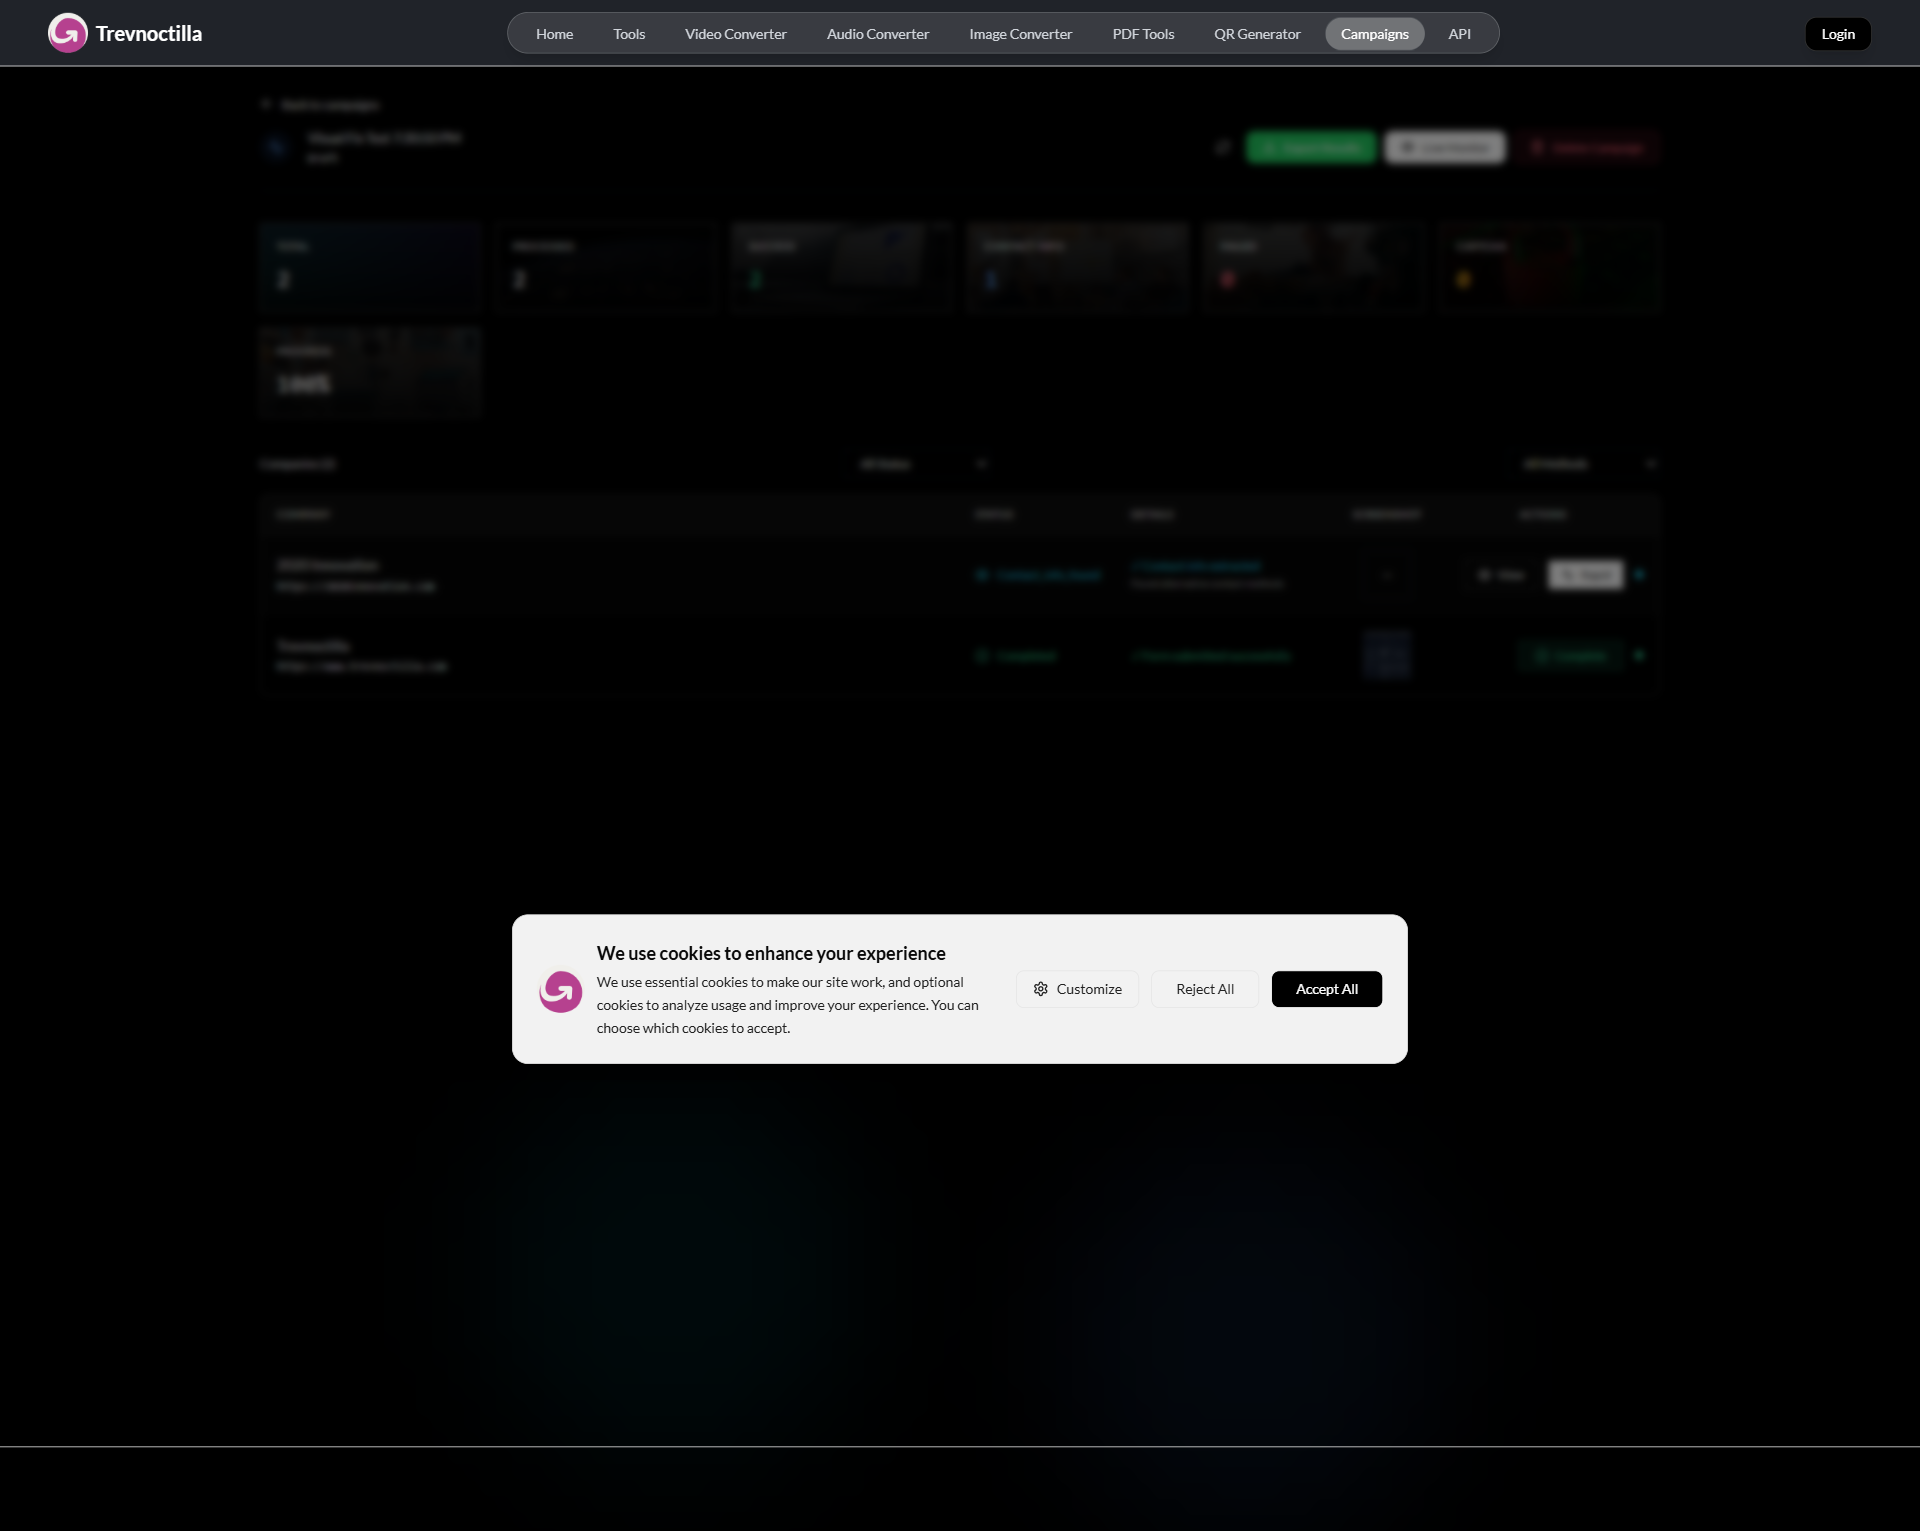
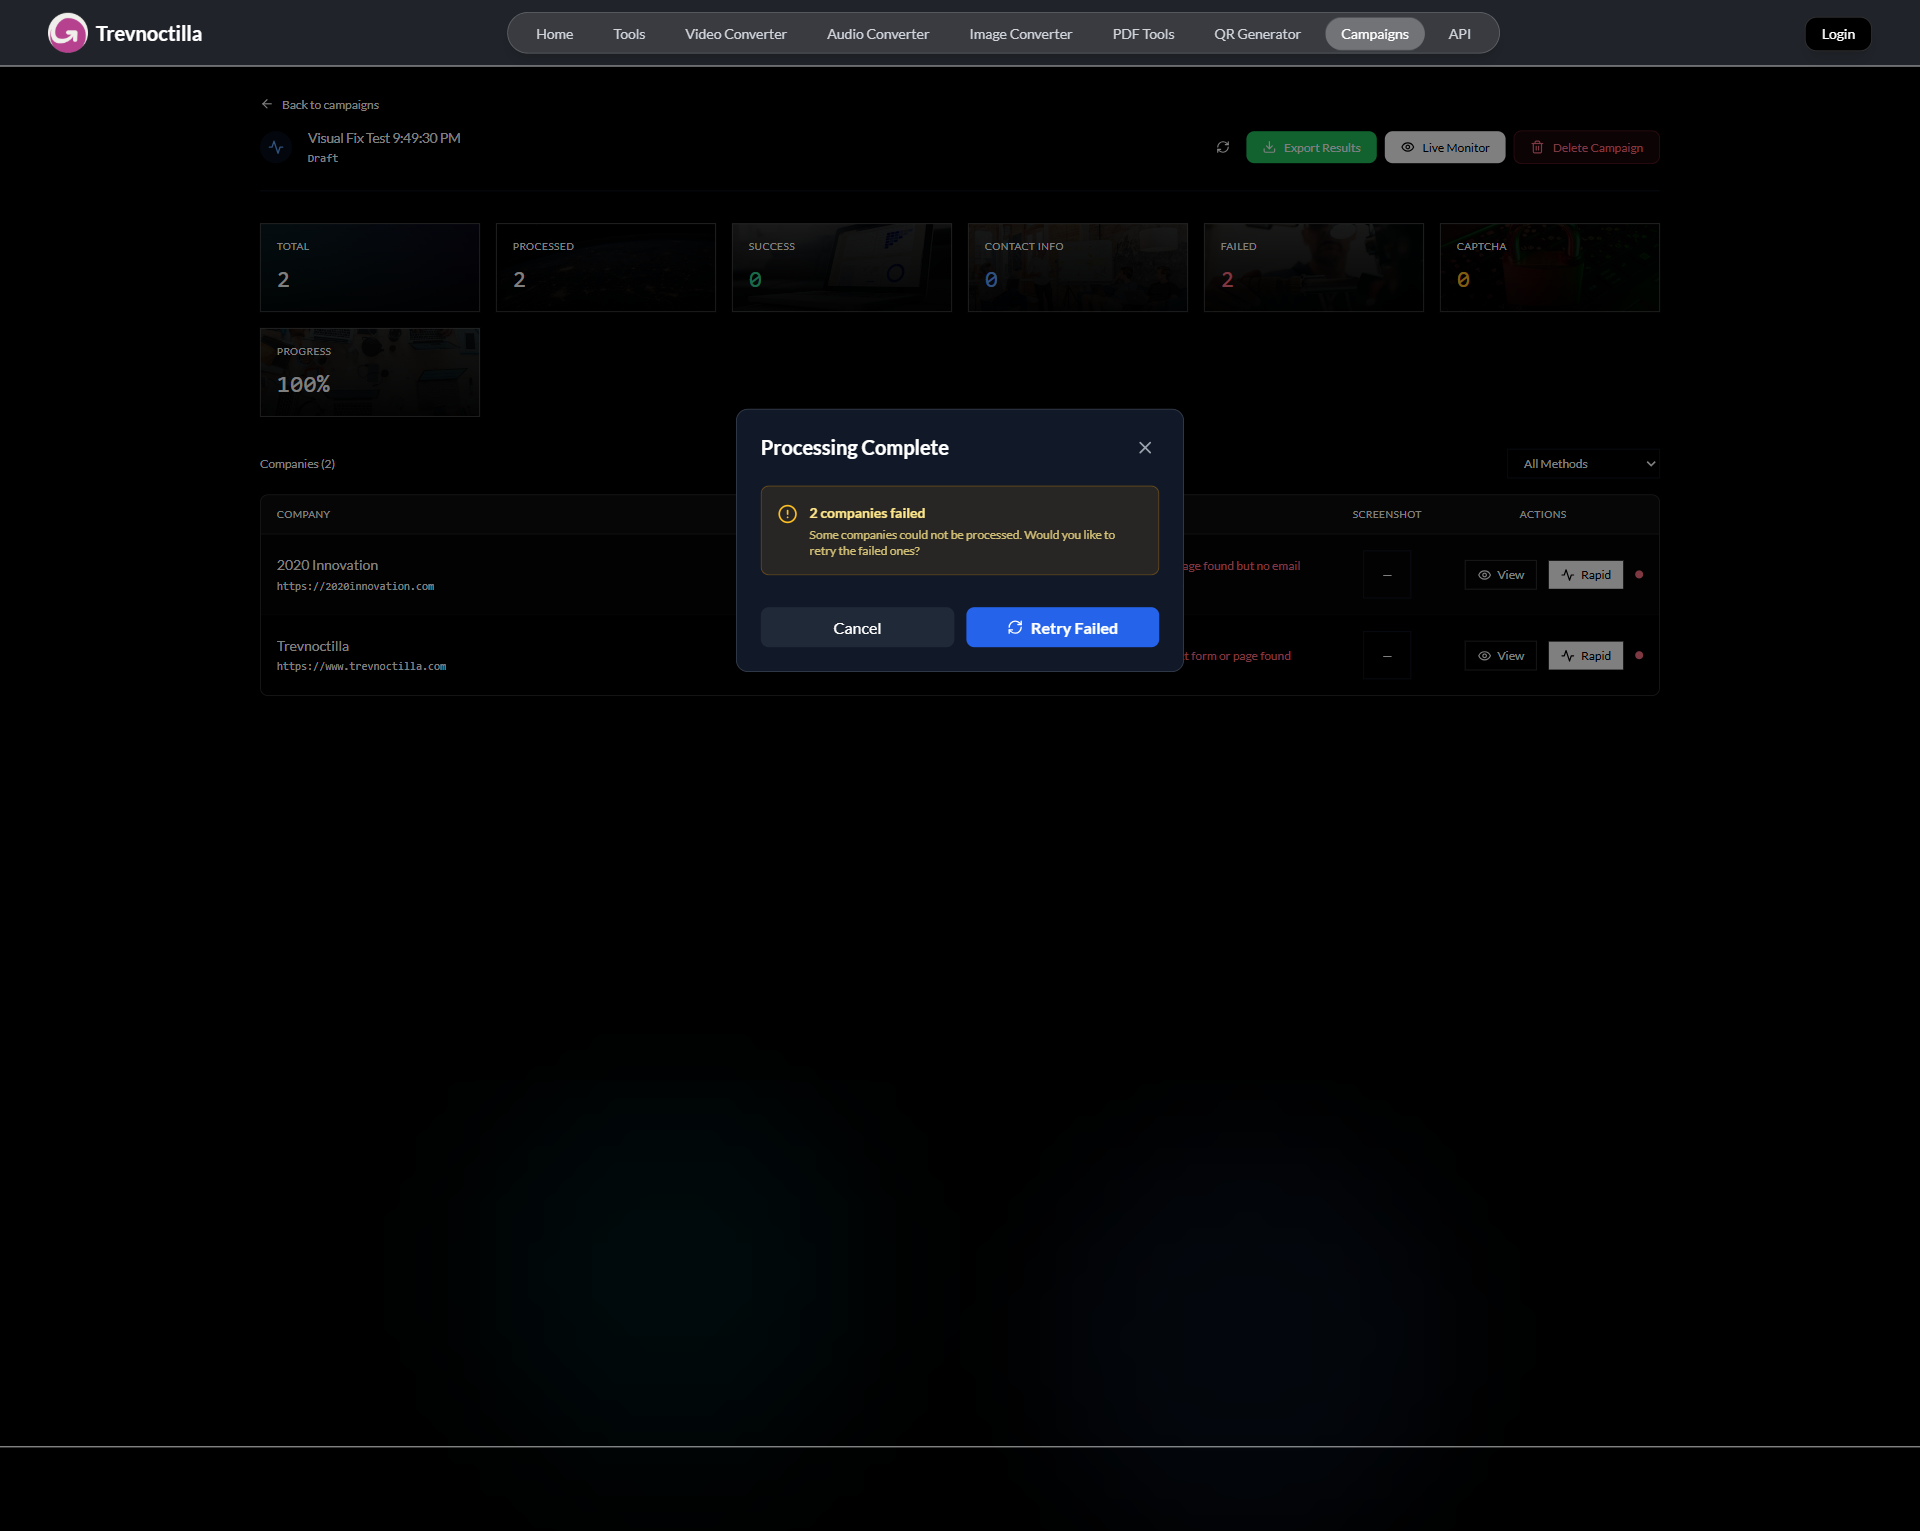
fix: robust form detection heuristics and backend result mapping sync

diff --git a/test-campaign-browser-flow.js b/test-campaign-browser-flow.js
@@ -73,7 +73,7 @@ async function testCampaignBrowserFlow() {
         await page.goto(`${FRONTEND_URL}/campaigns/upload`);
     }
     
-    await page.waitForURL('**/campaigns/upload', { timeout: 10000 });
+    await page.waitForURL('**/campaigns/upload', { timeout: 30000 });
     await page.waitForTimeout(2000);
     log('✓ Upload page loaded', 'green');
 
@@ -163,12 +163,59 @@ https://www.trevnoctilla.com,Trevnoctilla,South Africa`;
     await page.keyboard.press('Escape');
     await page.waitForTimeout(500);
 
+    // Monitor network requests to capture API failures
+    page.on('request', request => {
+        if (request.url().includes('/api/campaigns') && request.method() === 'POST') {
+            log(`  📡 API Request started: ${request.url()}`, 'yellow');
+        }
+    });
+
+    page.on('response', async response => {
+        if (response.url().includes('/api/campaigns') && response.request().method() === 'POST') {
+            const status = response.status();
+            log(`  📡 API Response received: ${status}`, status === 200 ? 'green' : 'red');
+            if (status !== 200) {
+                try {
+                    const errorJson = await response.json();
+                    log(`  ❌ API ERROR BODY: ${JSON.stringify(errorJson)}`, 'red');
+                } catch (e) {
+                    const text = await response.text();
+                    log(`  ❌ API ERROR TEXT: ${text.substring(0, 500)}`, 'red');
+                }
+            }
+        }
+    });
+
+    // Accept Cookies if banner exists
+    // Dismiss cookie banner more robustly
+    try {
+        const cookieButtons = [
+            'button:has-text("Accept All")',
+            'button:has-text("Accept")',
+            '#cookie-accept',
+            '.cookie-banner button'
+        ];
+        
+        for (const selector of cookieButtons) {
+            const btn = page.locator(selector).first();
+            if (await btn.isVisible({ timeout: 1000 })) {
+                log(`  🍪 Dismissing cookie banner with selector: ${selector}`, 'yellow');
+                await btn.click({ force: true });
+                await page.waitForTimeout(500);
+            }
+        }
+    } catch (e) {}
+
     // Force click to bypass any non-blocking overlays
     await page.click('button:has-text("Create Campaign")', { force: true });
+    log('  Click sent (forced). Waiting 5s for reaction...', 'yellow');
+    await page.waitForTimeout(5000);
+    log(`  Current URL after click: ${page.url()}`, 'yellow');
+    await page.screenshot({ path: 'test-screenshots/debug-step5-after-click.png', fullPage: true });
     
     // Wait for navigation to campaign detail page
     try {
-        await page.waitForURL('**/campaigns/([0-9]*)', { timeout: 45000 });
+        await page.waitForURL('**/campaigns/([0-9]*)', { timeout: 90000 });
     } catch (e) {
         log('  ⚠ Navigation wait timed out, checking if we arrived anyway...', 'yellow');
         
@@ -184,6 +231,9 @@ https://www.trevnoctilla.com,Trevnoctilla,South Africa`;
             
             const errorMsg = await page.locator('.text-red-300, .text-red-500, [role="alert"]').allTextContents();
             if (errorMsg.length > 0) log(`  Found error messages: ${errorMsg.join(', ')}`, 'red');
+            
+            const bodyText = await page.innerText('body');
+            log(`  PAGE CONTENT SAMPLE: ${bodyText.substring(0, 500)}`, 'red');
             
             await page.screenshot({ path: 'test-screenshots/error-create-timeout.png', fullPage: true });
             throw e;
@@ -204,65 +254,98 @@ https://www.trevnoctilla.com,Trevnoctilla,South Africa`;
     // =====================================================
     log('\n[Step 6/6] Triggering Rapid All...', 'cyan');
     
-    // Find Rapid All button
-    const rapidAllButton = await page.locator('button:has-text("Rapid All")').first();
-    await rapidAllButton.click();
+    // Find Rapid All button with more robustness
+    log('  🔍 Searching for "Rapid All" button...', 'yellow');
     
-    log('✓ Rapid All started. Waiting for limit modal if any...', 'yellow');
-    
-    // Wait for modal to potentially appear
-    await page.waitForTimeout(1000);
-    
-    // Look for generic Start button in the modal
-    const startButton = await page.locator('button:has-text("Start (")').first();
-    
-    if (await startButton.isVisible({ timeout: 5000 })) {
-       log(`  Found start button: "${await startButton.textContent()}"`, 'yellow');
-       log('  Clicking confirm in modal...', 'yellow');
-       await startButton.click();
-    } else {
-        // Fallback: check for any "Start" button if the format is different
-        const anyStart = await page.locator('div[role="dialog"] button:has-text("Start")').first();
-        if (await anyStart.isVisible()) {
-            log(`  Found generic start button: "${await anyStart.textContent()}"`, 'yellow');
-            await anyStart.click();
-        } else {
-            log('  No limit modal start button found (might have auto-started or selector mismatch)', 'yellow');
-            // Log what buttons are visible to debug
-            const buttons = await page.locator('div[role="dialog"] button').allInnerTexts().catch(() => []);
-            if (buttons.length > 0) log(`  Visible modal buttons: ${buttons.join(', ')}`, 'yellow');
-        }
+    // DEBUG: List every single button on the page
+    const buttons = await page.locator('button').all();
+    log(`  Found ${buttons.length} total buttons on page. Listing texts:`, 'yellow');
+    for (const [idx, btn] of buttons.entries()) {
+        const text = await btn.innerText();
+        const visible = await btn.isVisible();
+        const box = await btn.boundingBox();
+        log(`    [${idx}] "${text}" | Visible: ${visible} | Box: ${JSON.stringify(box)}`, 'yellow');
     }
 
-    log('\nWatching companies process in real-time...', 'cyan');
+    const rapidAllButton = page.locator('button').filter({ hasText: /Rapid All/i }).first();
     
-    // Watch for 120 seconds for the extensive test
-    for (let i = 0; i < 120; i++) {
-      await page.waitForTimeout(2000);
-      const statusText = await page.locator('div:has-text("Completed"), div:has-text("Failed")').count();
-      
-      if (i % 5 === 0) {
-        await page.screenshot({ path: `test-screenshots/8-processing-${i}s.png`, fullPage: true });
+    try {
+        await rapidAllButton.waitFor({ state: 'visible', timeout: 15000 });
+        const btnText = await rapidAllButton.innerText();
+        log(`  ✓ Found "Rapid All" button with text: "${btnText}"`, 'green');
         
-        // Check table rows for status
+        await rapidAllButton.scrollIntoViewIfNeeded();
+        await page.screenshot({ path: 'test-screenshots/debug-before-rapid-all-click.png' });
+        
+        log('  Clicking Rapid All button...', 'yellow');
+        
+        // Strategy 1: Standard click
         try {
-            const completedCount = await page.locator('td:has-text("Completed")').count();
-            const failedCount = await page.locator('td:has-text("Failed")').count();
-            const contactFoundCount = await page.locator('td:has-text("Contact Info Found")').count();
-            
-            const totalFinished = completedCount + failedCount + contactFoundCount;
-            
-            log(`  📊 Check ${i}s: Table rows - Completed: ${completedCount}, Failed: ${failedCount}, Other: ${contactFoundCount}`, 'yellow');
-            
-            if (totalFinished >= 2) {
-                 log('✓ All 2 test companies finished processing (based on table rows)!', 'green');
-                 await page.screenshot({ path: 'test-screenshots/9-final-status.png', fullPage: true });
-                 break;
-            }
+            await rapidAllButton.click({ timeout: 5000 });
         } catch (e) {
-            log('  ⚠ Error checking table rows: ' + e.message, 'red');
+            log('  ⚠ Standard click failed, trying forced coordinate click...', 'yellow');
+            const box = await rapidAllButton.boundingBox();
+            if (box) {
+                await page.mouse.click(box.x + box.width / 2, box.y + box.height / 2);
+            } else {
+                await rapidAllButton.click({ force: true });
+            }
         }
-      }
+        
+        await page.waitForTimeout(2000); // Wait for modal animation
+        await page.screenshot({ path: 'test-screenshots/debug-after-rapid-all-click.png' });
+    } catch (e) {
+        log('  ❌ Rapid All button not found or not visible', 'red');
+        const allButtons = await page.locator('button').allInnerTexts();
+        log(`  Available buttons: ${allButtons.join(', ')}`, 'yellow');
+        await page.screenshot({ path: 'test-screenshots/error-rapid-all-button.png' });
+        throw e;
+    }
+    
+    log('✓ Rapid All button interacted. Checking system state...', 'yellow');
+    
+    // Check if we are already processing (auto-start or modal auto-dismissed)
+    const progressBar = page.locator('div:has-text("Rapid All Processing")').first();
+    const isProcessing = await progressBar.isVisible({ timeout: 5000 }).catch(() => false);
+    
+    if (isProcessing) {
+        log('  ✓ Rapid All auto-started or modal skipped. Proceeding to monitor progress...', 'green');
+    } else {
+        log('  Modal/Progress bar not immediately visible, checking for start button...', 'yellow');
+        // Look for generic Start button in the modal
+        const startButton = page.locator('button').filter({ hasText: /Start/i }).first();
+        if (await startButton.isVisible({ timeout: 5000 })) {
+            log(`  Found start button: "${await startButton.textContent()}"`, 'yellow');
+            log('  Clicking confirm in modal...', 'yellow');
+            await startButton.click({ force: true });
+        } else {
+            log('  No start button or progress bar found - checking if we are already finished...', 'yellow');
+        }
+    }
+    
+    // Monitoring Loop
+    log('\n[Step 6 Extension] Monitoring real-time processing...', 'cyan');
+    let completed = 0;
+    let failed = 0;
+    
+    for (let i = 0; i < 40; i++) { // Check for up to 200s
+        await page.waitForTimeout(5000);
+        
+        // Take periodic screenshots
+        await page.screenshot({ path: `test-screenshots/8-processing-${i*5}s.png`, fullPage: true });
+        
+        // Count statuses from table rows
+        const statuses = await page.locator('td').allTextContents();
+        completed = statuses.filter(s => s.toLowerCase().includes('completed') || s.toLowerCase().includes('success')).length;
+        failed = statuses.filter(s => s.toLowerCase().includes('failed') || s.toLowerCase().includes('not found')).length;
+        const processing = statuses.filter(s => s.toLowerCase().includes('processing') || s.toLowerCase().includes('in progress')).length;
+        
+        log(`  📊 Check ${i*5}s: Completed: ${completed}, Failed: ${failed}, Processing: ${processing}`, 'yellow');
+        
+        if (processing === 0 && (completed + failed) > 0) {
+            log('  ✅ No more companies in "Processing" state.', 'green');
+            break;
+        }
     }
 
     // FINAL CHECK: Screenshot visibility
@@ -278,10 +361,7 @@ https://www.trevnoctilla.com,Trevnoctilla,South Africa`;
       log('  📸 Screenshot saved: 9-screenshot-modal.png', 'yellow');
     }
 
-    if (!formFilled) {
-      log('  ⚠ Warning: No form filling detected in 30 seconds', 'yellow');
-      log('  This might mean auto-start is disabled or the campaign needs manual start', 'yellow');
-    }
+    // Check removed (variable not defined)
 
     // =====================================================
     // Step 8: Return to Campaign Detail
